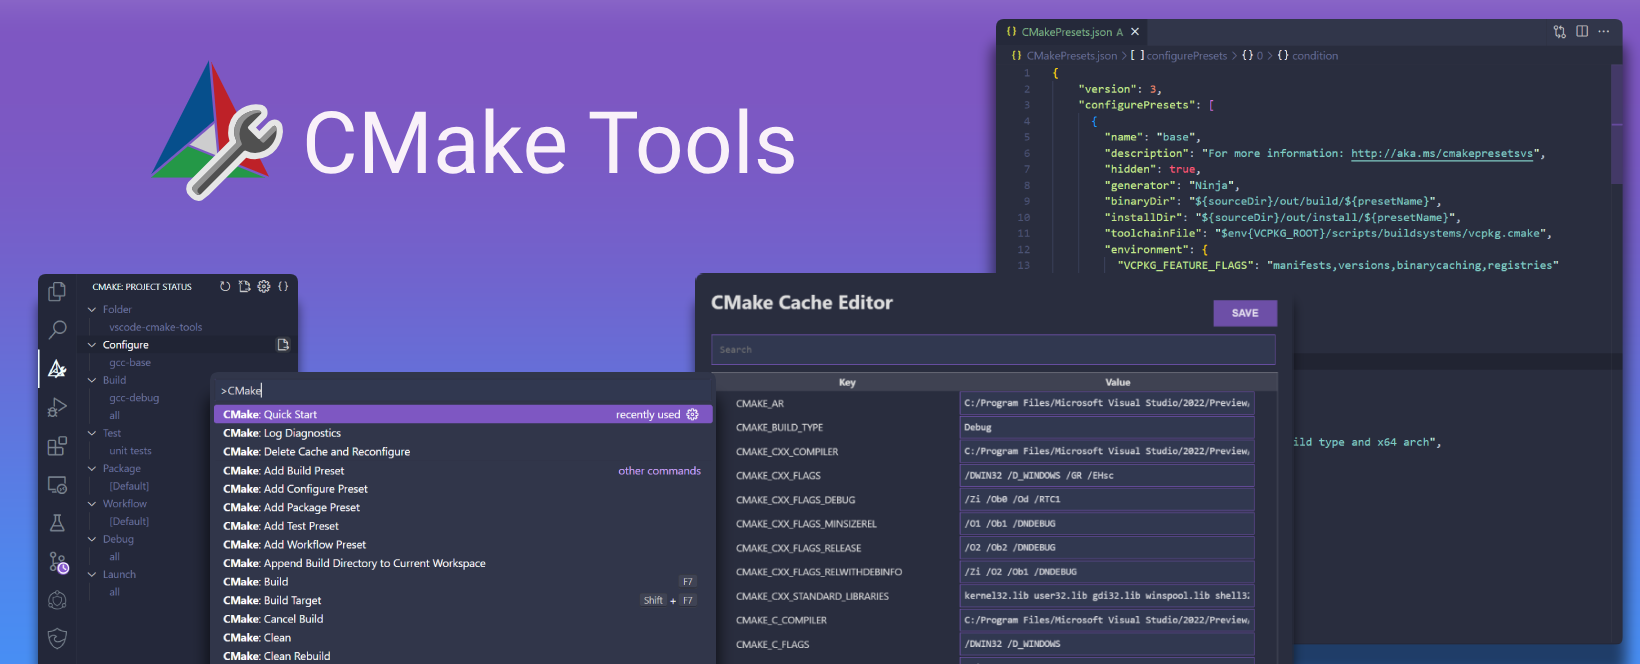
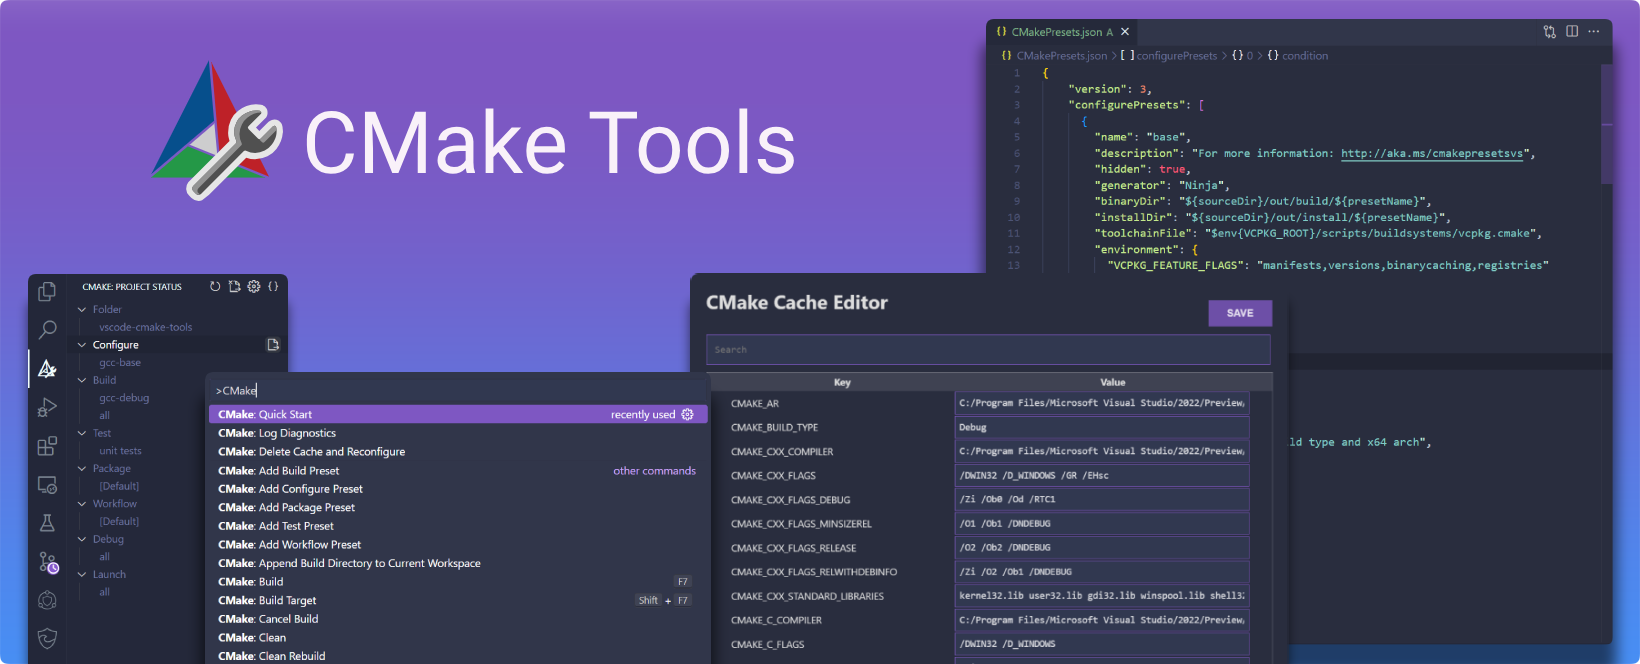
more images

diff --git a/README.md b/README.md
@@ -16,7 +16,7 @@
 
 <br/>
 <center>
-    <img style="width: 100%" src="res/graphics/cmake-tools-banner-rounded.png"/>
+    <img style="width: 100%" src="res/graphics/cmake-tools-banner.png"/>
 </center>
 
 ## Introduction
